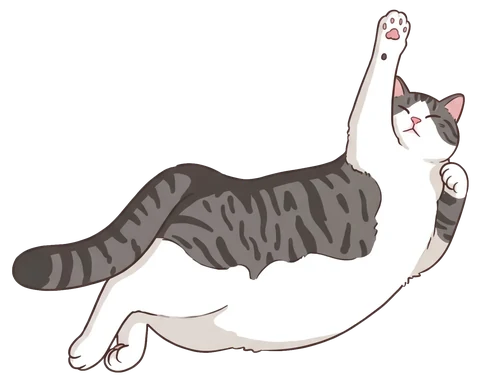
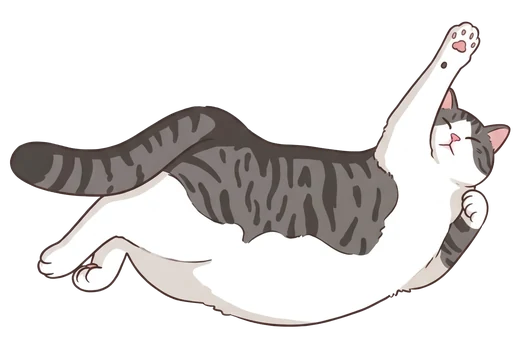
Bố cục lại cô dâu chú rể: dấu & cùng hàng với tên, mèo dưới tên, dùng ảnh mèo mới
Claude-Session: https://claude.ai/code/session_01WBG4bTw1jPqBViV6yJBZ9a

Changed region(s): [[0.0, 0.0, 1.0, 0.9525]]

diff --git a/public/style.css b/public/style.css
@@ -75,17 +75,24 @@ body.locked { overflow: hidden; }
 /* Couple */
 .couple { text-align: center; }
 .quote { font-family: "Playfair Display", serif; font-style: italic; font-size: 1.15rem; max-width: 600px; margin: 0 auto 3rem; color: var(--muted); }
-.couple-grid { display: grid; grid-template-columns: minmax(0, 1fr) auto minmax(0, 1fr); align-items: stretch; gap: .6rem; }
-.person { display: flex; flex-direction: column; align-items: center; }
+/* Lưới 3 cột: chú rể | & | cô dâu. Mỗi hàng căn ngang nhau: nhãn, bố mẹ, tên (có dấu &), mèo */
+.couple-grid { display: grid; grid-template-columns: minmax(0, 1fr) auto minmax(0, 1fr); column-gap: .6rem; align-items: center; justify-items: center; }
+.person { display: contents; }
+.person:first-child > * { grid-column: 1; }
+.person:last-child > * { grid-column: 3; }
+.person .small { grid-row: 1; }
+.person .parents { grid-row: 2; }
+.person h2 { grid-row: 3; }
+.person .cat { grid-row: 4; }
 .person h2 { font-size: clamp(1.6rem, 5.5vw, 2.2rem); line-height: 1.2; margin-top: .6rem; text-wrap: balance; }
 .parents { font-size: .88rem; font-weight: 600; color: var(--ink); line-height: 1.55; }
 .parents span { display: block; }
 .parents .hon { font-style: normal; font-weight: 400; color: var(--muted); }
 /* Hai chú mèo nằm dưới tên, cùng đáy với nhau */
-.cat { display: block; height: auto; margin-top: auto; padding-top: 1rem; }
-.cat-groom { width: min(100%, 170px); }
+.cat { display: block; height: auto; margin-top: 1.1rem; }
+.cat-groom { width: min(100%, 200px); }
 .cat-bride { width: min(100%, 190px); }
-.amp { font-size: 1.9rem; align-self: center; padding-top: 1.5rem; }
+.amp { grid-column: 2; grid-row: 3; font-size: 2.2rem; line-height: 1; position: relative; top: 5px; }
 
 /* Events */
 .events { display: grid; grid-template-columns: 1fr; gap: 1.5rem; }

diff --git a/public/index.html b/public/index.html
@@ -62,7 +62,7 @@
           <p class="small">Nhà trai</p>
           <p class="parents" id="groomParents"></p>
           <h2 class="script" id="groomName"></h2>
-          <img class="cat cat-groom" src="images/cat-groom.webp" alt="" width="480" height="391" loading="lazy">
+          <img class="cat cat-groom" src="images/cat-groom.webp" alt="" width="520" height="358" loading="lazy">
         </div>
         <div class="amp script">&amp;</div>
         <div class="person">
